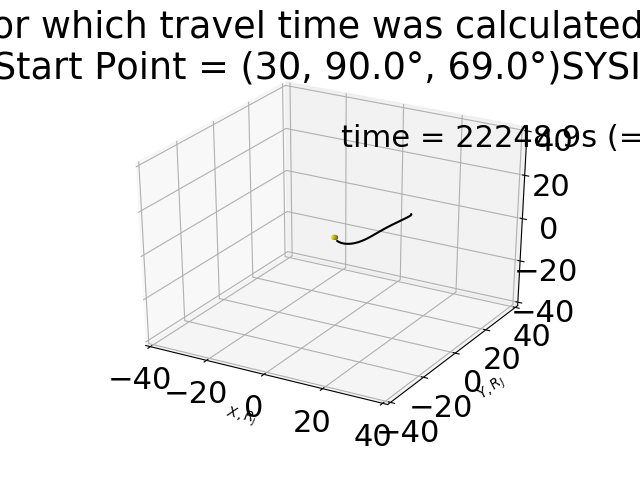
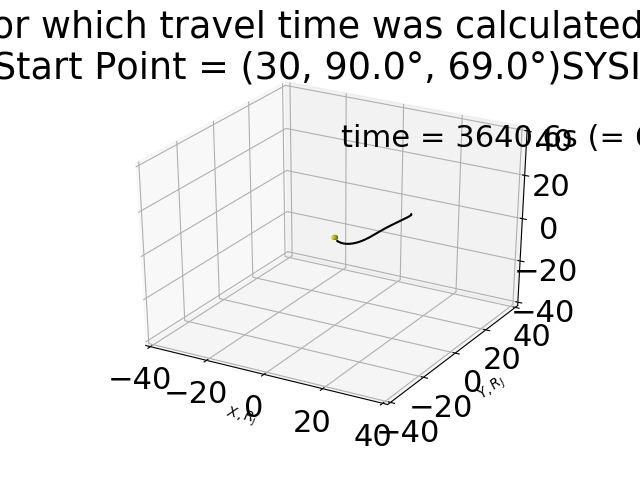
think i fixed it

Changed region(s): [[0.7188, 0.25, 1.0, 0.3125]]

diff --git a/alfven.py b/alfven.py
@@ -365,7 +365,8 @@ class AlfvenVel:
         plt.show()
     
         
-    def travel_time(self, startpoint = [30, np.pi/2, 212* np.pi/180], direction = 'forward', path_plot = 'off', dr_plot = 'off', print_time = 'on', va_plot ='off'):
+    def travel_time(self, startpoint = [30, np.pi/2, 212* np.pi/180], direction = 'forward', path_plot = 'off', dr_plot = 'off', print_time = 'on', va_plot ='off',b_plot = 'off', n_plot = 'off', 
+    debug_plot = 'off'):
         '''
         Calculate the travel path/time of an alfven wave from a given startpoint to the ionosphere. 
         input startpoint [r, theta, phi] where r is in rj and phi is left handed
@@ -385,6 +386,8 @@ class AlfvenVel:
         rs_rj = rs/Rj
         rs_rj_popped =  rs_rj[rs_rj > 6]
         Bs = np.array(plot_results[2]) / 1e9 # turn nano tesla into T
+        B_along_path = []
+        n_along_path = []
         ''' 
         this returns the path taken (in terms of point by point) taken by the alfven wave (points)
         and the magnetic field at each points (Bs)
@@ -407,6 +410,8 @@ class AlfvenVel:
             magB_start = np.linalg.norm(B_start)
             magB_end = np.linalg.norm(B_end)
             averageB = (magB_end + magB_start)/2
+            B_along_path.append(averageB)
+            
 
             ''' 
             - this part is probably worth checking with Licia/someone (espicially as it keeps returning a time that is too small)
@@ -421,24 +426,17 @@ class AlfvenVel:
                 '''
                 this is where the density problem lies - we need to put a better version of the density in here! 
                 ''' 
-                va = 5e6
+                va = 0.9 * 3e8
                 traveltime = distance/va
                 time += traveltime
                 continue
                 
-            r_cent = r 
-            phi_cent = phi
-            theta_shift = self.help.centrifugal_equator(r, phi)
-            theta_cent = theta + theta_shift
-            
-            scaleheight = self.densityfunctions.scaleheight(r_cent)
-            n_0 = self.radialfunctions.radial_density(r_cent)
-            x_cent, y_cent, z_cent = self.help.sph_to_cart(r_cent, theta_cent, phi_cent)
-            n = self.densityfunctions.density(n_0, z_cent, scaleheight)
+            n = self.densityfunctions.density_sep_equators(r, theta, phi)
             
             if n < 1e4: 
                 n = 1e4
                 ''' CURRENT LOW DENSITY CORRECTION'''
+            n_along_path.append(n)
             va = self.calculator(averageB, n)
             #print(averageB, n)
             va_uncorrected_list.append(va)
@@ -520,6 +518,58 @@ class AlfvenVel:
             plt.figlegend()
             fig.suptitle('Effect of including relativistic correction')
             plt.savefig('images-24-jan-update/va correction effects.png')
+            plt.show()
+        if b_plot == 'on':
+            fig, ax1 = plt.subplots()
+            numbers_b = list(range(len(B_along_path)))
+            
+            ax1.plot(numbers_b, B_along_path, label = 'B along path', color = 'k')
+            ax1.set_xlabel('Point Index')
+            ax1.set_ylabel('B Along Path', color = 'k')
+            ax1.tick_params(axis='y', labelcolor='k')
+            #ax1.legend(loc=0)
+            numbers_r = list(range(len(rs_rj_popped)))
+            ax2 = ax1.twinx() 
+            ax2.plot(numbers_r, rs_rj_popped, label = 'r ($km$)', color = 'c', linestyle ='--')
+            ax2.set_ylabel('Distance From Planet (km)', color = 'c')
+            ax2.tick_params(axis='y', labelcolor='c')
+            #ax2.legend(loc = 1)
+            #plt.legend()
+            plt.show()
+        if n_plot == 'on':
+            fig, ax1 = plt.subplots()
+            numbers_n = list(range(len(n_along_path)))
+            
+            ax1.plot(numbers_n, n_along_path, label = 'n along path', color = 'k')
+            ax1.set_xlabel('Point Index')
+            ax1.set_ylabel('N Along Path', color = 'k')
+            ax1.tick_params(axis='y', labelcolor='k')
+            #ax1.legend(loc=0)
+            numbers_r = list(range(len(rs_rj_popped)))
+            ax2 = ax1.twinx() 
+            ax2.plot(numbers_r, rs_rj_popped, label = 'r ($km$)', color = 'c', linestyle ='--')
+            ax2.set_ylabel('Distance From Planet (km)', color = 'c')
+            ax2.tick_params(axis='y', labelcolor='c')
+            #ax2.legend(loc = 1)
+            #plt.legend()
+            plt.show()
+        if debug_plot == 'on':
+            fig, ax1 = plt.subplots()
+            numbers_b = list(range(len(B_along_path)))
+            
+            ax1.plot(numbers_b, B_along_path, label = 'B along path', color = 'k')
+            ax1.set_xlabel('Point Index')
+            ax1.set_ylabel('B Along Path', color = 'k')
+            ax1.tick_params(axis='y', labelcolor='k')
+            #ax1.legend(loc=0)
+            ax2 = ax1.twinx() 
+            numbers_n = list(range(len(n_along_path)))
+            ax2.plot(numbers_n, n_along_path, label = 'n along path', color = 'b')
+            ax2.set_xlabel('Point Index')
+            ax2.set_ylabel('N Along Path', color = 'b')
+            ax2.tick_params(axis='y', labelcolor='b')
+            #ax2.legend(loc = 1)
+            #plt.legend()
             plt.show()
         return time, va_corrected_list, va_uncorrected_list, plottable_list, rs_km
 
@@ -698,7 +748,7 @@ test = AlfvenVel(numpoints=200)
 #test.topdown_seperate_equators(density = 'on')
 
 #test.travel_time([30, np.pi/2, 69 * np.pi/180], direction='forward', dr_plot='off', path_plot = 'on', va_plot = 'off')
-test.travel_time([30, np.pi/2, 69 * np.pi/180], direction='forwards', dr_plot='off', path_plot = 'on', va_plot = 'on')
+test.travel_time([30, np.pi/2, 69 * np.pi/180], direction='forwards', dr_plot='off', path_plot = 'on', va_plot = 'on', b_plot='off', n_plot= 'on', debug_plot= 'off')
 #test.sideview_seperate_equators(69)
 #test.plot_rel_effect()
 #test.plot_correction()
